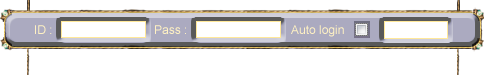
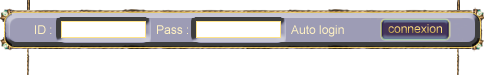
Quelques corrections vite fait

diff --git a/css/site.css b/css/site.css
@@ -1,10 +1,10 @@
 body 								{ margin:0; padding:0; color:#222; background:#000 url(./../image/site/essai_intro_sso_20sept09g.jpg) no-repeat 50% 0; }
 img 								{ border:0; }
-a 									{ color:#FFF; }
-
+a 									{ color:#E2D1AA; }
+a:hover								{color:#CCF2FF;}
 /*-- Placement ----------------------------------------------------------*/
 
-#accueil 							{ width:1024px; margin:auto; font:13px "Helvetica Neue", Helvetica, Arial, Geneva, sans-serif; }
+#accueil 							{ width:1024px; margin:auto; font:12px "Helvetica Neue", Helvetica, Arial, Geneva, sans-serif; }
 #accueil .box 						{ height:357px; padding:10px; position:absolute; width:530px; background:transparent url(./../image/site/cadrecentrepagesso.png) no-repeat scroll 0 0; color:#e2d1aa; overflow:auto; text-align:justify; }
 #presentation_box 					{ padding-left:5px; width:503px; }
 #news_box h2 						{ font-size:1.2em; margin:0; padding:0; margin-bottom:3px; }
@@ -22,7 +22,8 @@ a 									{ color:#FFF; }
 .login_nom 							{ background-color:#000000; border:0 none; color:white; float:left; height:13px; margin-left:52px; margin-top:19px; text-align:left; width:81px; }
 .login_mdp 							{ background-color:#000000; border:0 none; color:white; float:left; height:13px; margin-left:54px; margin-top:19px; text-align:left; width:80px; }
 .login_auto 						{ background-color:#000000; border:0 none; color:white; float:left; height:13px; margin-left:76px; margin-top:19px; text-align:left; width:14px; }
-.login_connexion 					{ background-color:#000000; border:0 none; color:white; float:left; height:16px; margin-left:13px; margin-top:19px; text-align:left; width:62px; }
+.login_connexion 					{ cursor:pointer;display:block;float:left; height:16px; margin-left:13px; margin-top:19px; text-align:left; width:62px; }
+.login_connexion:hover				{ background:transparent url(./../image/site/boutonconnexion.png) no-repeat scroll -3px;}
 #login a 							{ color:#EEE; font-size:13px; }
 #login #deco 						{ float:right; cursor:pointer; }
 #carac 								{ float:left; width:150px; padding:0; margin:0; }
@@ -60,7 +61,7 @@ a 									{ color:#FFF; }
 #test 								{ margin-left:50px; position:absolute; top:74px; z-index:5; height:18px; }
 #liens								{ background:transparent url(./../image/site/cadrebasboutonsso.png) no-repeat scroll 0 0; border:medium none; color:#EEEEEE; height:60px; margin-left:83px; overflow:auto; position:absolute; text-align:justify; top:477px; width:480px; }
 #liens p 							{ color:#957D47; font-size:12px; padding:16px 0 0 20px; text-align:justify; }
-#liens a 							{ color:#FFF; padding-left:10px; padding-right:10px; text-decoration:none; }
+#liens a 							{ color:#957D47; padding-left:10px; padding-right:10px; text-decoration:none; }
 #liens a:hover 						{ text-decoration:underline; }
 #accueil_pub 						{ background:transparent url(./../image/site/cadrebasbandeaupub.png) no-repeat scroll 0 0; height:84px; margin-left:95px; padding-top:19px; position:absolute; top:529px; width:455px; }
 .logo 								{ background:url(./../image/site/logosso.png) no-repeat; height:116px; width:311px; margin-left:100px; display:block; }
@@ -89,7 +90,7 @@ a 									{ color:#FFF; }
 #popup_erreur_content 				{ padding:5px; text-align:justify; width:98%; }
 #popup_erreur_marge 				{ min-height:50px; margin:auto; width:200px; }
 .fermer 							{ background:transparent url(./../image/interface/rouge.png) no-repeat top left; display:block; height:16px; width:16px; cursor:pointer!important; }
-.perso_cadre						{ width:306px;float:left;background-color:#000;-moz-border-radius : 10px;margin-left:14px;padding-left:15px;}
+.perso_cadre						{ width:306px;float:left;background-color:#c3beff;-moz-border-radius : 10px;margin-left:14px;padding-left:15px;}
 .perso_espacement					{ width: 17px; float: left; height: 1px;display:block;}
 
 /*-- Perso ----------------------------------------------------------*/

diff --git a/roi/index.php b/roi/index.php
@@ -123,7 +123,7 @@ if($joueur->get_grade()->get_id() == 6)
 	<div id='menu_details'>
 		<div id='ressource_menu' style='display:none;'><span class='menu' onclick="affiche_page('gestion_royaume.php?direction=bourse');">Bourse Inter Royaume</span><span class='menu' onclick="affiche_page('ressources.php');">Ressources</span><span class='menu' onclick="affiche_page('mine.php');">Gestion des mines</span></div>
 		<div id='economie_menu' style='display:none;'><span class='menu'  onclick="affiche_page('gestion_royaume.php?direction=construction');">Construction de la ville</span><span class='menu' onclick="affiche_page('entretien.php');">Entretien</span><span class='menu' onclick="affiche_page('taxe.php');">Gestion des taxes</span></div>
-		<div id='militaire_menu' style='display:none;'><span class='menu' onclick="affiche_page('construction.php');">Drapeaux & batiments</span><span class='menu' onclick="affiche_page('gestion_royaume.php?direction=carte');">Carte</span><span class='menu' onclick="affiche_page('gestion_groupe.php');">Gestion des groupes</span><span class='menu' onclick="affiche_page('gestion_bataille.php');">Gestion des batailles</span><span class='menu' onclick="affiche_page('gestion_royaume.php?direction=boutique');">Boutique Militaire</span></div>
+		<div id='militaire_menu' style='display:none;'><span class='menu' onclick="affiche_page('construction.php');">Drapeaux & batiments</span><span class='menu' onclick="affiche_page('gestion_royaume.php?direction=carte');">Carte</span><?php /*<span class='menu' onclick="affiche_page('gestion_groupe.php');">Gestion des groupes</span><span class='menu' onclick="affiche_page('gestion_bataille.php');">Gestion des batailles</span> */ ?><span class='menu' onclick="affiche_page('gestion_royaume.php?direction=boutique');">Boutique Militaire</span></div>
 		<div id='communication_menu' style='display:none;'><span class='menu' onclick="affiche_page('gestion_royaume.php?direction=diplomatie');">Diplomatie</span><span class='menu' onclick="affiche_page('motk.php');">Message du roi</span><span class='menu' onclick="affiche_page('propagande.php');">Propagande</span></div>
 		<div id='divers_menu' style='display:none;'><span class='menu' onclick="affiche_page('quete.php');">Gestion des quètes</span><span class='menu' onclick="affiche_page('gestion_royaume.php?direction=criminel');">Criminels</span><span class='menu' onclick="affiche_page('gestion_royaume.php?direction=stats');">Statistiques</span><span class='menu' onclick="affiche_page('point_victoire.php');">Points de victoires</span></div>
 	</div><a class="fermer" href="../jeu2.php" target="_top" style="float: right; padding-right: 5px">&nbsp;</a>

diff --git a/index.php b/index.php
@@ -130,12 +130,13 @@ N'oubliez pas de reporter les bugs et problèmes, et d'apporter vos suggestions 
 			{
 			?>
 				<div id='login'>			
-				<form action="index.php" method="post">
+				<form id='login_form' action="index.php" method="post">
 				<div>
 				<input type="text" name="nom" size="10" class="login_nom" />
 				<input type="password" name="password" size="10" class="login_mdp" />
 				<input type="checkbox" name="auto_login" value="Ok" class="login_auto" />
-				<input type="submit" name="log" value="Connexion" class="login_connexion" />
+				<input type='hidden' name='log' />
+				<span class='login_connexion' onclick="$('#login_form').submit();"> </span>
 				</div>
 				</form>
 				</div>		
